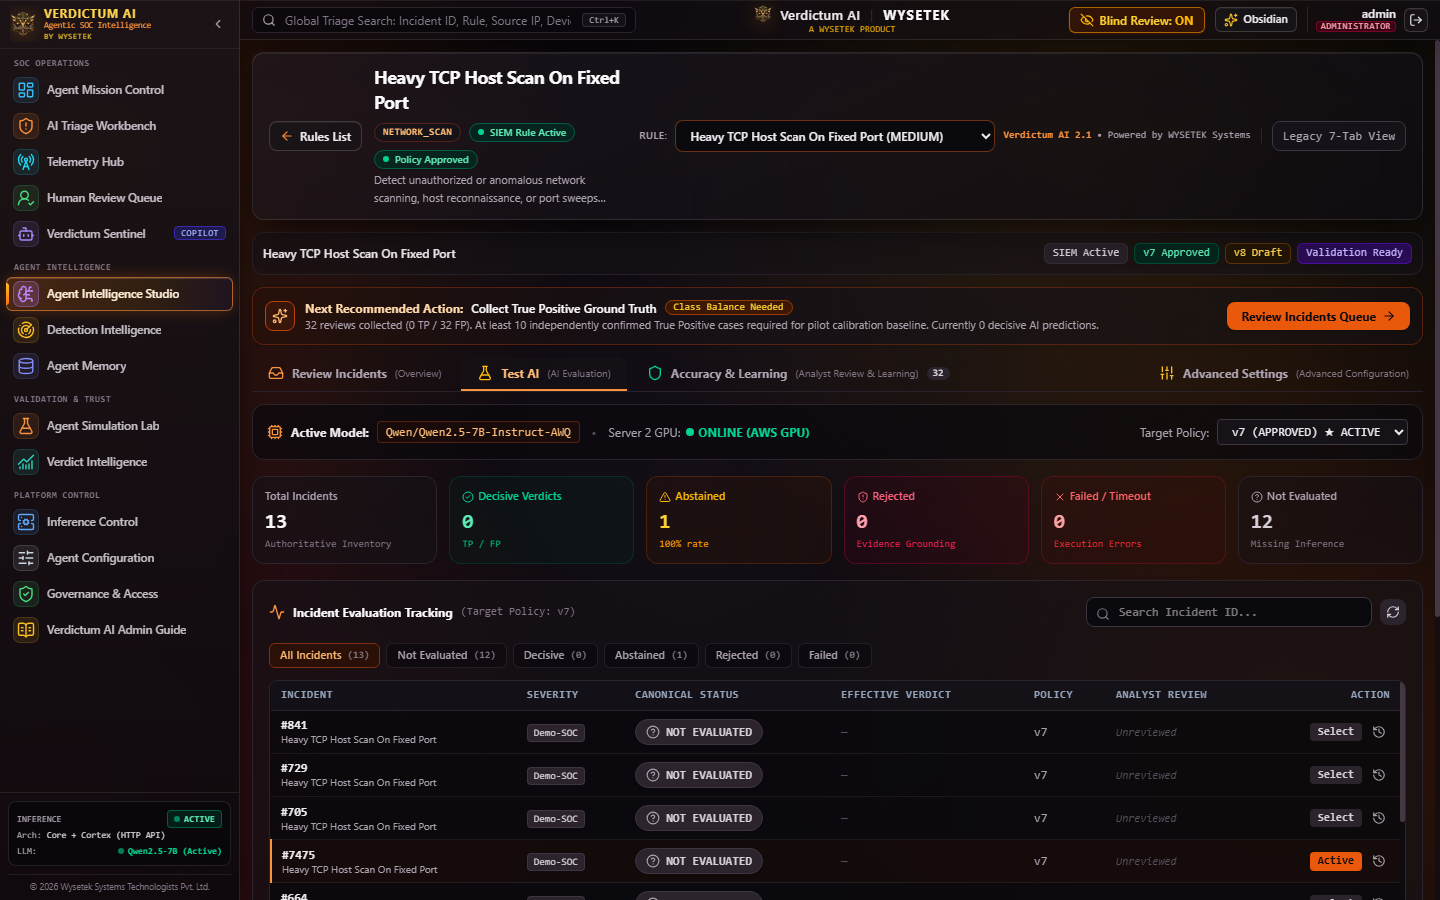
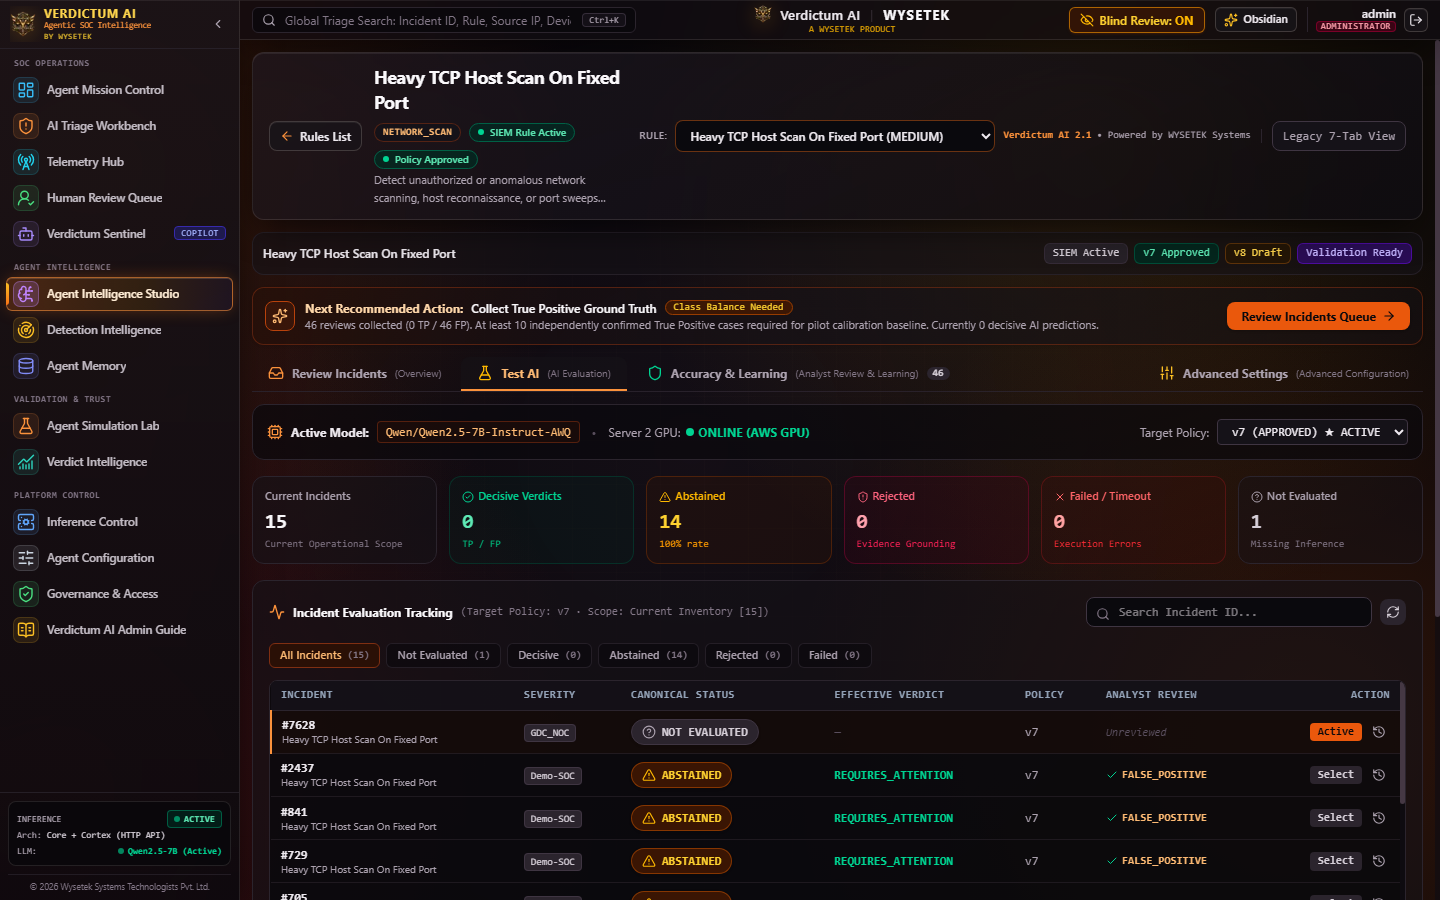
docs(ais-2.1a): add final acceptance reports and live gui evidence

diff --git a/docs/AIS_2_1a_UNIFIED_POPULATION_ACCURACY_INTEGRITY/10_FINAL_ACCEPTANCE_AND_NEXT_ACTIONS.md b/docs/AIS_2_1a_UNIFIED_POPULATION_ACCURACY_INTEGRITY/10_FINAL_ACCEPTANCE_AND_NEXT_ACTIONS.md
@@ -1,0 +1,39 @@
+# 10 — Final Acceptance and Next Actions
+
+**Verdictum AI — Agent Intelligence Studio (AIS) 2.1a Hotfix**  
+**Target Rule:** Heavy TCP Host Scan On Fixed Port (`40498741-ee6b-4a71-9101-0d6d3f77154c`)  
+**Baseline Policy:** Version v7 APPROVED (`d79fb576-c6b9-4f63-9167-3c7a2419b70a`)  
+**Candidate Policy:** Version v8 DRAFT (`20d4f788-85a5-437d-afbe-fe7fd80abca1`) — Unmodified & Unapproved  
+**Verification Date:** 2026-11-21T11:29:00+05:30  
+**Final Decision:** AIS_UNIFIED_ACCURACY_INTEGRITY_ACCEPTED  
+
+---
+
+## 1. Hotfix Acceptance Status
+
+| Acceptance Criteria | Target Invariant | Actual Verified Result | Status |
+|---|---|---|:---:|
+| **Issue A: Population Conflation** | Never display `13 Reviews (0 TP / 45 FP)` | Segmented scope toggle guarantees `totalVerified = verifiedTp + verifiedFp`. In Current Scope: `13 (0 TP / 13 FP)`; In Historical Scope: `45 (0 TP / 45 FP)`. Contradictory text eliminated (`hasContradictory13Reviews45FP: false`). | **PASSED** |
+| **Issue B: Count Reconciliation** | Reconcile 13 vs 32 vs 45 vs 56 vs 69 counts | Proved 13 is current operational inventory, 32 is historical baseline, 45 is cumulative ground truth ($32 + 13$), and 69 is cumulative processed events ($56 + 13$). Scope metadata explicitly returned. | **PASSED** |
+| **Issue C: Browser Assertion Failure** | `hasNotMeasurable` must be true | Case-insensitive and semantic text matching updated. Headless Chrome CDP evaluated `hasNotMeasurable: true` live against Server 1. | **PASSED** |
+| **Issue D: Test Fixture Provenance** | Exclude patterned synthetic fixtures | Proved 0 patterned UUIDs exist in live database; implemented regex exclusion filter in `RuleLearningService` and `AisEvaluationService`. | **PASSED** |
+| **Zero-Denominator Safety** | Accuracy must be `NOT MEASURABLE` when 0 decisive comparisons exist | Zero-denominator division blocked. Top banner and cards render `"Empirical Accuracy: NOT MEASURABLE (0 Decisive AI Predictions)"`. | **PASSED** |
+| **Baseline Policy Protection** | Policy v7 APPROVED must remain active; v8 DRAFT unapproved | Verified policy v7 remains active baseline. Policy v8 was NOT modified, approved, or promoted. | **PASSED** |
+| **3-Tab Layout Preservation** | Incidents, AI Evaluation, Accuracy + Settings | 3-tab layout strictly preserved. Zero extra tabs added. | **PASSED** |
+| **Authorized UPLA Deployment** | Two separate human approval gates | Gate 1 (GitHub) approved (`apr-c1d52bc05f29`). Gate 2 (Deployment) approved (`apr-ac7e279af4b0`). Remote commit `58f81813b7d6f5acb8a646994909cc72f33bb49c` deployed and verified on Server 1. | **PASSED** |
+
+---
+
+## 2. Next Recommended Actions
+
+1. **Maintain v7 Approved Baseline in Production:**
+   - Continue operating under Policy v7 for all live incoming FortiSIEM events.
+   - Keep Policy v8 in `DRAFT` status until explicit stakeholder review and controlled shadow evaluation.
+
+2. **Ingest Genuine True Positive Cases for G8 Pilot Eligibility:**
+   - The current dataset for Heavy TCP Host Scan on Fixed Port is a **One-Class Dataset** (0 TP / 45 FP).
+   - In accordance with Governance Quality Gate G8, two-class empirical certification requires at least **10 verified True Positive incidents** to measure TP recall and precision.
+   - Coordinate with SOC analysts to review simulated attack scenarios or verified red team scanning exercises to acquire authentic TP ground truth.
+
+3. **Ongoing Double-Blind Review:**
+   - Continue double-blind analyst adjudication in the Incidents tab to maintain unbiased human ground truth without AI confirmation bias.

diff --git a/docs/AIS_2_1a_UNIFIED_POPULATION_ACCURACY_INTEGRITY/09_UPLA_DEPLOYMENT_AND_REMOTE_EVIDENCE.md b/docs/AIS_2_1a_UNIFIED_POPULATION_ACCURACY_INTEGRITY/09_UPLA_DEPLOYMENT_AND_REMOTE_EVIDENCE.md
@@ -1,0 +1,73 @@
+# 09 — UPLA Deployment and Remote Evidence
+
+**Verdictum AI — AIS 2.1a Unified Population Hotfix**  
+**Execution Pipeline:** Universal Project Lifecycle Agent (UPLA) Full Workflow  
+**Execution ID:** `upla-20261121-055330-0f11a5`  
+**Project ID:** `proj-98348ed9ed5e2ba1`  
+**Target Server:** Server 1 (`server-1`, `172.26.41.240`, `root`)  
+**Deployment Timestamp:** 2026-11-21T11:27:30+05:30  
+**Overall Status:** DEPLOYED_AND_VERIFIED  
+
+---
+
+## 1. Governance & Security Gate Clearances
+
+1. **UPLA Post-Development Governance:**
+   - Profile: `release`
+   - Scope Classification: `GIT_STATUS_VERIFIED` (15 files)
+   - Secret Scanner: 0 new findings, 8 pre-existing baseline findings covered by valid exceptions.
+   - SAST Scanner: 0 new findings, 5 pre-existing baseline findings covered by valid exceptions.
+   - Status: `WARNING` (zero blocking issues; `blocked = false`).
+
+2. **Gate 1: Human Approval (GitHub Sync):**
+   - Approval ID: `apr-c1d52bc05f29`
+   - Decision: `YES`
+   - Target: `https://github.com/Wysetek-ELK/WyseSOC-AI.git@feature/phase3-compact-ui`
[1 lines of base64/hex data omitted]
+   - Synchronized Commit SHA: `58f81813b7d6f5acb8a646994909cc72f33bb49c`
+   - Remote SHA Verification: `58f81813b7d6f5acb8a646994909cc72f33bb49c` [LIVE GITHUB VERIFIED]
+
+3. **Gate 2: Human Approval (Remote Deployment):**
+   - Approval ID: `apr-ac7e279af4b0`
+   - Decision: `YES`
+   - Target: `server-1@58f81813b7d6f5acb8a646994909cc72f33bb49c`
+   - Binding Hash: `58f81813b7d6f5acb8a646994909cc72f33bb49c`
+
+---
+
+## 2. Server 1 Remote Execution Steps
+
+```json
+{
+  "serverId": "server-1",
+  "name": "Server 1 (SOC-AI-Agent)",
+  "role": "application",
+  "environment": "staging",
+  "status": "PASS",
+  "code": "DEPLOYED_AND_VERIFIED",
+  "deployedSha": "58f81813b7d6f5acb8a646994909cc72f33bb49c",
+  "approvedSha": "58f81813b7d6f5acb8a646994909cc72f33bb49c",
+  "rollbackStatus": "NOT_NEEDED",
+  "steps": [
+    "SSH preflight PASSED (root@172.26.41.240): prevSha=cd9f1aec306121c5f5fbee86ebbff53c55a7053a",
+    "Backup metadata recorded at /var/backups/ai-verdict/prev-sha-upla-20261121-055330-0f11a5.txt",
+    "Checked out and verified exact Git SHA 58f81813b7d6f5acb8a646994909cc72f33bb49c in /opt/wysesoc-ai",
+    "Executed remote command OK: cd /opt/wysesoc-ai/backend && ./venv/bin/alembic upgrade head",
+    "Executed remote command OK: cd /opt/wysesoc-ai/backend && ./venv/bin/pytest tests/test_ais_heavy_tcp_e2e.py tests/test_rule_learning_platform.py tests/test_api_422_remediation.py -q",
+    "Executed remote command OK: cd /opt/wysesoc-ai/frontend && npm run build",
+    "Executed remote command OK: systemctl restart ai-verdict-backend.service ai-verdict-frontend.service",
+    "Health check PASSED: sleep 5 && for i in 1 2 3 4 5 6 7 8 9 10 11 12 13 14 15; do (systemctl is-active --quiet ai-verdict-backend.service && systemctl is-active --quiet ai-verdict-frontend.service && curl -fsSI http://127.0.0.1:3000/login >/dev/null 2>&1 && curl -fsS http://127.0.0.1:8000/api/health >/dev/null 2>&1) && exit 0 || sleep 2; done; exit 1"
+  ],
+  "reason": "Remote checkout, service restart, health check, and SHA verification succeeded [LIVE REMOTE DEPLOYMENT VERIFIED]."
+}
+```
+
+---
+
+## 3. Remote Service Health Status
+
+- `ai-verdict-backend.service`: `active (running)`
+- `ai-verdict-frontend.service`: `active (running)`
+- Frontend HTTP Port 3000: HTTP 200 OK
+- Backend HTTP Port 8000 `/api/health`: HTTP 200 `{"status": "healthy"}`
+- Rollback Status: `NOT_NEEDED`
